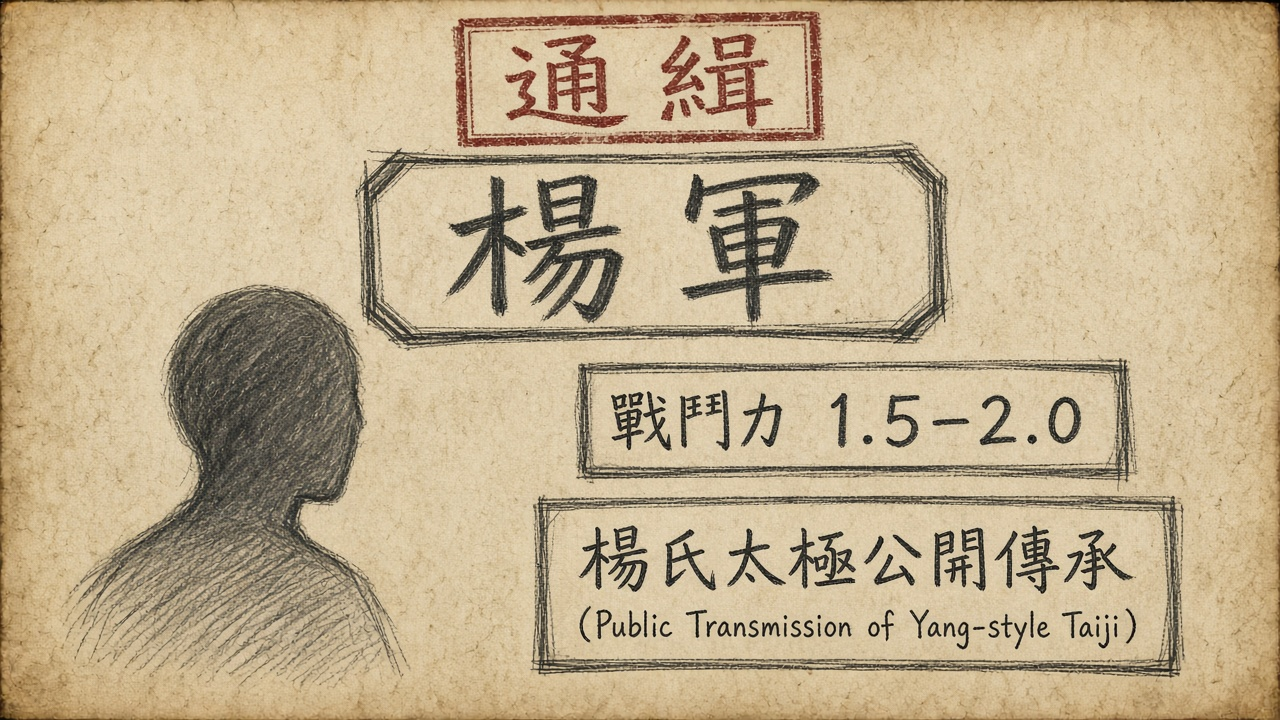
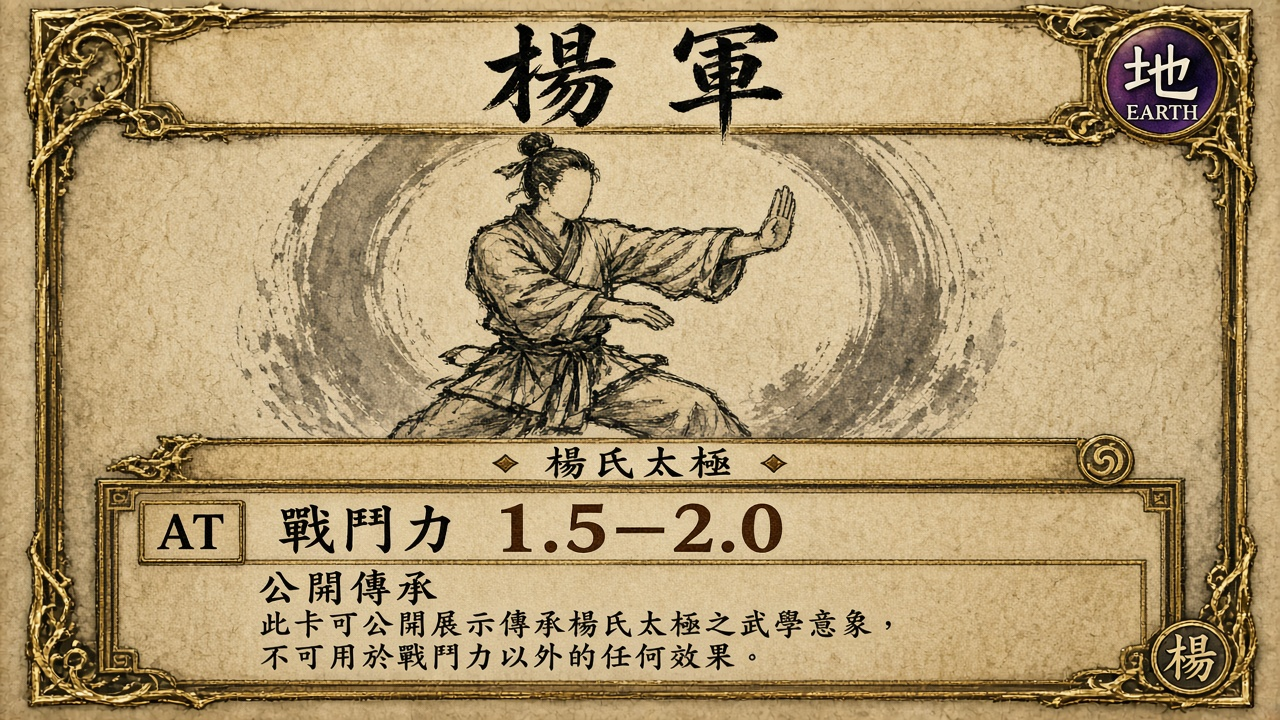
氣功大全：九張頭像改 TCG 卡牌風
覆蓋 assets/qigong-avatars 同 slug。頁面唔再寫通緝卡，改標 TCG／卡牌風頭像、非真人肖像。

diff --git a/qigong-encyclopedia.html b/qigong-encyclopedia.html
@@ -710,21 +710,21 @@ tr:hover td { background: rgba(255,255,255,.02); }
     </div>
 
     <h3 id="rank-cards-title">角色卡</h3>
-    <p class="char-sheet-note">14 人未有傳記頁，卡片先掛喺度，唔連去空頁。頭像、戰鬥力、絕招跟 2026-10-18 採集檔，硬核祝福編輯意見｜非官方。下面人物表係較早暫估，同卡嘅數字若唔同，唔好當成同一條數。楊軍、葉問、陳小旺、黃淳樑、John Danaher、Gordon Ryan、Yang Xiaojun 用粗剪影通緝卡｜非真人肖像。YouTube 縮圖或 Commons 團體照只作載入失敗備援。吹水、表演、傳說、影視唔當高戰力。</p>
+    <p class="char-sheet-note">14 人未有傳記頁，卡片先掛喺度，唔連去空頁。頭像、戰鬥力、絕招跟 2026-10-18 採集檔，硬核祝福編輯意見｜非官方。下面人物表係較早暫估，同卡嘅數字若唔同，唔好當成同一條數。楊軍、葉問、陳小旺、黃淳樑、John Danaher、Gordon Ryan、Yang Xiaojun 用TCG／卡牌風頭像｜非真人肖像。YouTube 縮圖或 Commons 團體照只作載入失敗備援。吹水、表演、傳說、影視唔當高戰力。</p>
     <div class="char-grid char-grid--ranks" id="rank-cards" aria-label="人物角色卡">
-      <article class="char-card char-card--rank" data-slug="bio-ip-man"><div class="char-avatar char-avatar--poster"><img src="assets/qigong-avatars/bio-ip-man.jpg" data-fallback-src="https://upload.wikimedia.org/wikipedia/commons/5/50/Ip_Man_Wing_Chun_Association.jpg" alt="粗剪影通緝卡，非真人肖像" width="220" height="132" loading="lazy" decoding="async" /><svg class="char-silhouette" viewBox="0 0 64 64" aria-hidden="true" focusable="false"><circle cx="32" cy="22" r="10"></circle><path d="M12 56c2-14 10-20 20-20s18 6 20 20"></path></svg><span class="char-initials" aria-hidden="true">葉</span></div><div class="char-main"><p class="char-kicker">一等 · 香港 · 未有傳記頁</p><h3 class="char-name">葉問</h3><p class="char-power"><span class="char-power-k">戰鬥力</span> <strong>1.6–2.2</strong><span class="char-power-note">歷史估計｜編輯意見｜非官方 · 影視唔當實戰</span></p><ul class="char-moves" aria-label="絕招"><li class="char-move" data-kind="ok"><span class="move-tag">傳承可核</span><span class="move-name">詠春木人樁體系</span><span class="move-note">公開傳承標準訓練。影視改編唔加分。</span></li><li class="char-move" data-kind="ok"><span class="move-tag">傳承可核</span><span class="move-name">黏手（Chi Sao）</span><span class="move-note">葉問系接觸訓練。弟子系教學可見，唔等於本人賽績。</span></li><li class="char-move" data-kind="weak"><span class="move-tag">門派基本</span><span class="move-name">小念頭／尋橋結構</span><span class="move-note">公開教學生態可核。影視改編當娛樂，唔當實戰。</span></li></ul><p class="char-credit">粗剪影通緝卡｜非真人肖像。卡面字係草圖，戰鬥力以呢頁為準。載入失敗先用 Commons 團體照作史料備援。</p></div></article>
+      <article class="char-card char-card--rank" data-slug="bio-ip-man"><div class="char-avatar char-avatar--poster"><img src="assets/qigong-avatars/bio-ip-man.jpg" data-fallback-src="https://upload.wikimedia.org/wikipedia/commons/5/50/Ip_Man_Wing_Chun_Association.jpg" alt="TCG卡牌風頭像，非真人肖像" width="220" height="132" loading="lazy" decoding="async" /><svg class="char-silhouette" viewBox="0 0 64 64" aria-hidden="true" focusable="false"><circle cx="32" cy="22" r="10"></circle><path d="M12 56c2-14 10-20 20-20s18 6 20 20"></path></svg><span class="char-initials" aria-hidden="true">葉</span></div><div class="char-main"><p class="char-kicker">一等 · 香港 · 未有傳記頁</p><h3 class="char-name">葉問</h3><p class="char-power"><span class="char-power-k">戰鬥力</span> <strong>1.6–2.2</strong><span class="char-power-note">歷史估計｜編輯意見｜非官方 · 影視唔當實戰</span></p><ul class="char-moves" aria-label="絕招"><li class="char-move" data-kind="ok"><span class="move-tag">傳承可核</span><span class="move-name">詠春木人樁體系</span><span class="move-note">公開傳承標準訓練。影視改編唔加分。</span></li><li class="char-move" data-kind="ok"><span class="move-tag">傳承可核</span><span class="move-name">黏手（Chi Sao）</span><span class="move-note">葉問系接觸訓練。弟子系教學可見，唔等於本人賽績。</span></li><li class="char-move" data-kind="weak"><span class="move-tag">門派基本</span><span class="move-name">小念頭／尋橋結構</span><span class="move-note">公開教學生態可核。影視改編當娛樂，唔當實戰。</span></li></ul><p class="char-credit">TCG／卡牌風頭像｜非真人肖像。卡面字係草圖，戰鬥力以呢頁為準。載入失敗先用 Commons 團體照作史料備援。</p></div></article>
       <article class="char-card char-card--rank" data-slug="bio-bruce-lee"><div class="char-avatar"><img src="https://upload.wikimedia.org/wikipedia/commons/c/ca/Bruce_Lee_1973.jpg" alt="" width="104" height="104" loading="lazy" decoding="async" referrerpolicy="no-referrer" /><svg class="char-silhouette" viewBox="0 0 64 64" aria-hidden="true" focusable="false"><circle cx="32" cy="22" r="10"></circle><path d="M12 56c2-14 10-20 20-20s18 6 20 20"></path></svg><span class="char-initials" aria-hidden="true">李</span><span class="char-badge">劇照</span></div><div class="char-main"><p class="char-kicker">一等 · 香港／美國 · 未有傳記頁</p><h3 class="char-name">李小龍</h3><p class="char-power"><span class="char-power-k">戰鬥力</span> <strong>2.0–2.6</strong><span class="char-power-note">歷史估計｜編輯意見｜非官方 · 唔單片定論，唔超泰臣＝3</span></p><ul class="char-moves" aria-label="絕招"><li class="char-move" data-kind="ok"><span class="move-tag">方法論可核</span><span class="move-name">截拳直拳／非古典組合</span><span class="move-note">公開訓練史同方法論。唔靠一條街頭剪輯定論。</span></li><li class="char-move" data-kind="fun"><span class="move-tag">史料／影視娛樂</span><span class="move-name">踢擊／敏捷體能展示</span><span class="move-note">訓練史料可核。電影武打係娛樂，唔直接等於擂台戰績。</span></li><li class="char-move" data-kind="weak"><span class="move-tag">示範｜勿吹神功</span><span class="move-name">一寸拳</span><span class="move-note">公開示範存在。實戰效力勿神話，唔當高戰力神功。</span></li></ul><p class="char-credit">頭像：Wikimedia Commons 劇照 Bruce_Lee_1973.jpg。授權見 Commons 頁，上站再核。</p></div></article>
       <article class="char-card char-card--rank" data-slug="bio-mas-oyama"><div class="char-avatar"><img src="https://upload.wikimedia.org/wikipedia/commons/6/6f/Masutatsu_Oyama_karate.jpg" alt="" width="104" height="104" loading="lazy" decoding="async" referrerpolicy="no-referrer" /><svg class="char-silhouette" viewBox="0 0 64 64" aria-hidden="true" focusable="false"><circle cx="32" cy="22" r="10"></circle><path d="M12 56c2-14 10-20 20-20s18 6 20 20"></path></svg><span class="char-initials" aria-hidden="true">大</span></div><div class="char-main"><p class="char-kicker">一等 · 日本 · 未有傳記頁</p><h3 class="char-name">大山倍達</h3><p class="char-power"><span class="char-power-k">戰鬥力</span> <strong>2.2–2.8</strong><span class="char-power-note">歷史估計｜編輯意見｜非官方 · 傳說唔自動超泰臣＝3</span></p><ul class="char-moves" aria-label="絕招"><li class="char-move" data-kind="ok"><span class="move-tag">體系可核</span><span class="move-name">極真全接觸組手</span><span class="move-note">無護手套錦標賽規則可核。個人傳奇要分開睇。</span></li><li class="char-move" data-kind="ok"><span class="move-tag">賽事可證</span><span class="move-name">中段踢／重擊傳統</span><span class="move-note">體系全接觸賽事可見。唔把傳說加進戰鬥力。</span></li><li class="char-move" data-kind="pending"><span class="move-tag">待核／傳說</span><span class="move-name">山籠訓練敘事</span><span class="move-note">個人傳奇同非賽事敘事混埋。狀態待核，唔當已證絕招。</span></li></ul><p class="char-credit">頭像：Wikimedia Commons 1954 報道照片 Masutatsu_Oyama_karate.jpg。授權見 Commons 頁，上站再核。</p></div></article>
-      <article class="char-card char-card--rank" data-slug="bio-gordon-ryan"><div class="char-avatar char-avatar--poster"><img src="assets/qigong-avatars/bio-gordon-ryan.jpg" data-fallback-src="https://i.ytimg.com/vi/Cwp2Q0angjc/hqdefault.jpg" alt="粗剪影通緝卡，非真人肖像" width="220" height="132" loading="lazy" decoding="async" /><svg class="char-silhouette" viewBox="0 0 64 64" aria-hidden="true" focusable="false"><circle cx="32" cy="22" r="10"></circle><path d="M12 56c2-14 10-20 20-20s18 6 20 20"></path></svg><span class="char-initials" aria-hidden="true">G</span></div><div class="char-main"><p class="char-kicker">一等 · 美國 · 未有傳記頁</p><h3 class="char-name">Gordon Ryan</h3><p class="char-power"><span class="char-power-k">戰鬥力</span> <strong>2.4–2.9</strong><span class="char-power-note">編輯意見｜非官方 · 貼近上限，唔寫超泰臣＝3</span></p><ul class="char-moves" aria-label="絕招"><li class="char-move" data-kind="ok"><span class="move-tag">可證教學</span><span class="move-name">站立防摔基本</span><span class="move-note">公開站立防摔拆解。</span></li><li class="char-move" data-kind="ok"><span class="move-tag">賽績可核</span><span class="move-name">無道服上層／腿鎖體系</span><span class="move-note">ADCC 級公開賽果。專項係寢技，唔漫畫化。</span></li><li class="char-move" data-kind="ok"><span class="move-tag">可證競技</span><span class="move-name">身體鎖／體位壓制</span><span class="move-note">公開賽可見結束技術。</span></li></ul><p class="char-credit">粗剪影通緝卡｜非真人肖像。卡面字係草圖，戰鬥力以呢頁為準。載入失敗先用 YouTube 縮圖（跟 ToS，非官方）。</p></div></article>
-      <article class="char-card char-card--rank" data-slug="bio-chen-xiaowang"><div class="char-avatar char-avatar--poster"><img src="assets/qigong-avatars/bio-chen-xiaowang.jpg" data-fallback-src="https://i.ytimg.com/vi/bUmE_1L4vdo/hqdefault.jpg" alt="粗剪影通緝卡，非真人肖像" width="220" height="132" loading="lazy" decoding="async" /><svg class="char-silhouette" viewBox="0 0 64 64" aria-hidden="true" focusable="false"><circle cx="32" cy="22" r="10"></circle><path d="M12 56c2-14 10-20 20-20s18 6 20 20"></path></svg><span class="char-initials" aria-hidden="true">陳</span></div><div class="char-main"><p class="char-kicker">二等 · 中國 · 未有傳記頁</p><h3 class="char-name">陳小旺</h3><p class="char-power"><span class="char-power-k">戰鬥力</span> <strong>1.4–2.0</strong><span class="char-power-note">編輯意見｜非官方 · 示範可核，無全接觸職業賽績</span></p><ul class="char-moves" aria-label="絕招"><li class="char-move" data-kind="ok"><span class="move-tag">可證示範</span><span class="move-name">纏絲功</span><span class="move-note">螺旋結構、全身協調可見。唔當全接觸賽績。</span></li><li class="char-move" data-kind="ok"><span class="move-tag">可證</span><span class="move-name">定式發力／纏絲續</span><span class="move-note">續練公開可見。</span></li><li class="char-move" data-kind="ok"><span class="move-tag">可證接觸教學</span><span class="move-name">陳氏推手協調</span><span class="move-note">推手結構。唔當擂台戰績。</span></li></ul><p class="char-credit">粗剪影通緝卡｜非真人肖像。卡面字係草圖，戰鬥力以呢頁為準。載入失敗先用 YouTube 縮圖（跟 ToS，非官方）。</p></div></article>
-      <article class="char-card char-card--rank" data-slug="bio-wong-shun-leung"><div class="char-avatar char-avatar--poster"><img src="assets/qigong-avatars/bio-wong-shun-leung.jpg" data-fallback-src="https://i.ytimg.com/vi/r4RkhTyfrZE/hqdefault.jpg" alt="粗剪影通緝卡，非真人肖像" width="220" height="132" loading="lazy" decoding="async" /><svg class="char-silhouette" viewBox="0 0 64 64" aria-hidden="true" focusable="false"><circle cx="32" cy="22" r="10"></circle><path d="M12 56c2-14 10-20 20-20s18 6 20 20"></path></svg><span class="char-initials" aria-hidden="true">黃</span></div><div class="char-main"><p class="char-kicker">二等 · 香港 · 未有傳記頁</p><h3 class="char-name">黃淳樑</h3><p class="char-power"><span class="char-power-k">戰鬥力</span> <strong>1.7–2.3</strong><span class="char-power-note">編輯意見｜非官方 · 比武場次數字口述待核</span></p><ul class="char-moves" aria-label="絕招"><li class="char-move" data-kind="ok"><span class="move-tag">可證教學</span><span class="move-name">攤膀／圈手</span><span class="move-note">研討會影像見結構。</span></li><li class="char-move" data-kind="weak"><span class="move-tag">教學導向</span><span class="move-name">講手</span><span class="move-note">紀錄片可核教學導向。場次數字待核，唔硬當官方紀錄。</span></li><li class="char-move" data-kind="ok"><span class="move-tag">可證結構</span><span class="move-name">直線中線拳法</span><span class="move-note">公開教學可見。</span></li></ul><p class="char-credit">粗剪影通緝卡｜非真人肖像。卡面字係草圖，戰鬥力以呢頁為準。載入失敗先用 YouTube 縮圖（跟 ToS，非官方）。</p></div></article>
-      <article class="char-card char-card--rank" data-slug="bio-john-danaher"><div class="char-avatar char-avatar--poster"><img src="assets/qigong-avatars/bio-john-danaher.jpg" data-fallback-src="https://i.ytimg.com/vi/jdv82OdlTO8/hqdefault.jpg" alt="粗剪影通緝卡，非真人肖像" width="220" height="132" loading="lazy" decoding="async" /><svg class="char-silhouette" viewBox="0 0 64 64" aria-hidden="true" focusable="false"><circle cx="32" cy="22" r="10"></circle><path d="M12 56c2-14 10-20 20-20s18 6 20 20"></path></svg><span class="char-initials" aria-hidden="true">J</span></div><div class="char-main"><p class="char-kicker">二等 · 紐西蘭→美國 · 未有傳記頁</p><h3 class="char-name">John Danaher</h3><p class="char-power"><span class="char-power-k">戰鬥力</span> <strong>1.5–2.0</strong><span class="char-power-note">教練為主｜編輯意見｜非官方 · 學員金牌 ≠ 本人出場</span></p><ul class="char-moves" aria-label="絕招"><li class="char-move" data-kind="ok"><span class="move-tag">可證教學</span><span class="move-name">體位控制系統</span><span class="move-note">公開課程拆解體位。</span></li><li class="char-move" data-kind="ok"><span class="move-tag">可證課程</span><span class="move-name">腿鎖／下層系統教學</span><span class="move-note">教練體系。學員賽績唔加成本人肢體戰力。</span></li></ul><p class="char-credit">粗剪影通緝卡｜非真人肖像。卡面字係草圖，戰鬥力以呢頁為準。載入失敗先用 YouTube 縮圖（跟 ToS，非官方）。</p></div></article>
-      <article class="char-card char-card--rank" data-slug="bio-yang-jun"><div class="char-avatar char-avatar--poster"><img src="assets/qigong-avatars/bio-yang-jun.jpg" alt="粗剪影通緝卡，非真人肖像" width="220" height="132" loading="lazy" decoding="async" /><svg class="char-silhouette" viewBox="0 0 64 64" aria-hidden="true" focusable="false"><circle cx="32" cy="22" r="10"></circle><path d="M12 56c2-14 10-20 20-20s18 6 20 20"></path></svg><span class="char-initials" aria-hidden="true">楊</span></div><div class="char-main"><p class="char-kicker">三等 · 中國→美國 · 未有傳記頁</p><h3 class="char-name">楊軍</h3><p class="char-power"><span class="char-power-k">戰鬥力</span> <strong>1.2–1.7</strong><span class="char-power-note">編輯意見｜非官方 · 傳承為主，非全接觸賽績</span></p><ul class="char-moves" aria-label="絕招"><li class="char-move" data-kind="ok"><span class="move-tag">公開傳承可核</span><span class="move-name">楊氏太極套路示範</span><span class="move-note">公開教學／推廣標準。非擂台選手型。</span></li><li class="char-move" data-kind="fun"><span class="move-tag">暱稱・推廣向</span><span class="move-name">國際研習帶功</span><span class="move-note">國際巡迴教學角色。唔當殺招。</span></li></ul><p class="char-credit">粗剪影通緝卡｜非真人肖像。卡面字係草圖，戰鬥力以呢頁為準。</p></div></article>
+      <article class="char-card char-card--rank" data-slug="bio-gordon-ryan"><div class="char-avatar char-avatar--poster"><img src="assets/qigong-avatars/bio-gordon-ryan.jpg" data-fallback-src="https://i.ytimg.com/vi/Cwp2Q0angjc/hqdefault.jpg" alt="TCG卡牌風頭像，非真人肖像" width="220" height="132" loading="lazy" decoding="async" /><svg class="char-silhouette" viewBox="0 0 64 64" aria-hidden="true" focusable="false"><circle cx="32" cy="22" r="10"></circle><path d="M12 56c2-14 10-20 20-20s18 6 20 20"></path></svg><span class="char-initials" aria-hidden="true">G</span></div><div class="char-main"><p class="char-kicker">一等 · 美國 · 未有傳記頁</p><h3 class="char-name">Gordon Ryan</h3><p class="char-power"><span class="char-power-k">戰鬥力</span> <strong>2.4–2.9</strong><span class="char-power-note">編輯意見｜非官方 · 貼近上限，唔寫超泰臣＝3</span></p><ul class="char-moves" aria-label="絕招"><li class="char-move" data-kind="ok"><span class="move-tag">可證教學</span><span class="move-name">站立防摔基本</span><span class="move-note">公開站立防摔拆解。</span></li><li class="char-move" data-kind="ok"><span class="move-tag">賽績可核</span><span class="move-name">無道服上層／腿鎖體系</span><span class="move-note">ADCC 級公開賽果。專項係寢技，唔漫畫化。</span></li><li class="char-move" data-kind="ok"><span class="move-tag">可證競技</span><span class="move-name">身體鎖／體位壓制</span><span class="move-note">公開賽可見結束技術。</span></li></ul><p class="char-credit">TCG／卡牌風頭像｜非真人肖像。卡面字係草圖，戰鬥力以呢頁為準。載入失敗先用 YouTube 縮圖（跟 ToS，非官方）。</p></div></article>
+      <article class="char-card char-card--rank" data-slug="bio-chen-xiaowang"><div class="char-avatar char-avatar--poster"><img src="assets/qigong-avatars/bio-chen-xiaowang.jpg" data-fallback-src="https://i.ytimg.com/vi/bUmE_1L4vdo/hqdefault.jpg" alt="TCG卡牌風頭像，非真人肖像" width="220" height="132" loading="lazy" decoding="async" /><svg class="char-silhouette" viewBox="0 0 64 64" aria-hidden="true" focusable="false"><circle cx="32" cy="22" r="10"></circle><path d="M12 56c2-14 10-20 20-20s18 6 20 20"></path></svg><span class="char-initials" aria-hidden="true">陳</span></div><div class="char-main"><p class="char-kicker">二等 · 中國 · 未有傳記頁</p><h3 class="char-name">陳小旺</h3><p class="char-power"><span class="char-power-k">戰鬥力</span> <strong>1.4–2.0</strong><span class="char-power-note">編輯意見｜非官方 · 示範可核，無全接觸職業賽績</span></p><ul class="char-moves" aria-label="絕招"><li class="char-move" data-kind="ok"><span class="move-tag">可證示範</span><span class="move-name">纏絲功</span><span class="move-note">螺旋結構、全身協調可見。唔當全接觸賽績。</span></li><li class="char-move" data-kind="ok"><span class="move-tag">可證</span><span class="move-name">定式發力／纏絲續</span><span class="move-note">續練公開可見。</span></li><li class="char-move" data-kind="ok"><span class="move-tag">可證接觸教學</span><span class="move-name">陳氏推手協調</span><span class="move-note">推手結構。唔當擂台戰績。</span></li></ul><p class="char-credit">TCG／卡牌風頭像｜非真人肖像。卡面字係草圖，戰鬥力以呢頁為準。載入失敗先用 YouTube 縮圖（跟 ToS，非官方）。</p></div></article>
+      <article class="char-card char-card--rank" data-slug="bio-wong-shun-leung"><div class="char-avatar char-avatar--poster"><img src="assets/qigong-avatars/bio-wong-shun-leung.jpg" data-fallback-src="https://i.ytimg.com/vi/r4RkhTyfrZE/hqdefault.jpg" alt="TCG卡牌風頭像，非真人肖像" width="220" height="132" loading="lazy" decoding="async" /><svg class="char-silhouette" viewBox="0 0 64 64" aria-hidden="true" focusable="false"><circle cx="32" cy="22" r="10"></circle><path d="M12 56c2-14 10-20 20-20s18 6 20 20"></path></svg><span class="char-initials" aria-hidden="true">黃</span></div><div class="char-main"><p class="char-kicker">二等 · 香港 · 未有傳記頁</p><h3 class="char-name">黃淳樑</h3><p class="char-power"><span class="char-power-k">戰鬥力</span> <strong>1.7–2.3</strong><span class="char-power-note">編輯意見｜非官方 · 比武場次數字口述待核</span></p><ul class="char-moves" aria-label="絕招"><li class="char-move" data-kind="ok"><span class="move-tag">可證教學</span><span class="move-name">攤膀／圈手</span><span class="move-note">研討會影像見結構。</span></li><li class="char-move" data-kind="weak"><span class="move-tag">教學導向</span><span class="move-name">講手</span><span class="move-note">紀錄片可核教學導向。場次數字待核，唔硬當官方紀錄。</span></li><li class="char-move" data-kind="ok"><span class="move-tag">可證結構</span><span class="move-name">直線中線拳法</span><span class="move-note">公開教學可見。</span></li></ul><p class="char-credit">TCG／卡牌風頭像｜非真人肖像。卡面字係草圖，戰鬥力以呢頁為準。載入失敗先用 YouTube 縮圖（跟 ToS，非官方）。</p></div></article>
+      <article class="char-card char-card--rank" data-slug="bio-john-danaher"><div class="char-avatar char-avatar--poster"><img src="assets/qigong-avatars/bio-john-danaher.jpg" data-fallback-src="https://i.ytimg.com/vi/jdv82OdlTO8/hqdefault.jpg" alt="TCG卡牌風頭像，非真人肖像" width="220" height="132" loading="lazy" decoding="async" /><svg class="char-silhouette" viewBox="0 0 64 64" aria-hidden="true" focusable="false"><circle cx="32" cy="22" r="10"></circle><path d="M12 56c2-14 10-20 20-20s18 6 20 20"></path></svg><span class="char-initials" aria-hidden="true">J</span></div><div class="char-main"><p class="char-kicker">二等 · 紐西蘭→美國 · 未有傳記頁</p><h3 class="char-name">John Danaher</h3><p class="char-power"><span class="char-power-k">戰鬥力</span> <strong>1.5–2.0</strong><span class="char-power-note">教練為主｜編輯意見｜非官方 · 學員金牌 ≠ 本人出場</span></p><ul class="char-moves" aria-label="絕招"><li class="char-move" data-kind="ok"><span class="move-tag">可證教學</span><span class="move-name">體位控制系統</span><span class="move-note">公開課程拆解體位。</span></li><li class="char-move" data-kind="ok"><span class="move-tag">可證課程</span><span class="move-name">腿鎖／下層系統教學</span><span class="move-note">教練體系。學員賽績唔加成本人肢體戰力。</span></li></ul><p class="char-credit">TCG／卡牌風頭像｜非真人肖像。卡面字係草圖，戰鬥力以呢頁為準。載入失敗先用 YouTube 縮圖（跟 ToS，非官方）。</p></div></article>
+      <article class="char-card char-card--rank" data-slug="bio-yang-jun"><div class="char-avatar char-avatar--poster"><img src="assets/qigong-avatars/bio-yang-jun.jpg" alt="TCG卡牌風頭像，非真人肖像" width="220" height="132" loading="lazy" decoding="async" /><svg class="char-silhouette" viewBox="0 0 64 64" aria-hidden="true" focusable="false"><circle cx="32" cy="22" r="10"></circle><path d="M12 56c2-14 10-20 20-20s18 6 20 20"></path></svg><span class="char-initials" aria-hidden="true">楊</span></div><div class="char-main"><p class="char-kicker">三等 · 中國→美國 · 未有傳記頁</p><h3 class="char-name">楊軍</h3><p class="char-power"><span class="char-power-k">戰鬥力</span> <strong>1.2–1.7</strong><span class="char-power-note">編輯意見｜非官方 · 傳承為主，非全接觸賽績</span></p><ul class="char-moves" aria-label="絕招"><li class="char-move" data-kind="ok"><span class="move-tag">公開傳承可核</span><span class="move-name">楊氏太極套路示範</span><span class="move-note">公開教學／推廣標準。非擂台選手型。</span></li><li class="char-move" data-kind="fun"><span class="move-tag">暱稱・推廣向</span><span class="move-name">國際研習帶功</span><span class="move-note">國際巡迴教學角色。唔當殺招。</span></li></ul><p class="char-credit">TCG／卡牌風頭像｜非真人肖像。卡面字係草圖，戰鬥力以呢頁為準。</p></div></article>
       <article class="char-card char-card--rank" data-slug="bio-luo-dexiu"><div class="char-avatar"><img src="https://i.ytimg.com/vi/-CA-eGPtXPo/hqdefault.jpg" alt="" width="104" height="104" loading="lazy" decoding="async" referrerpolicy="no-referrer" /><svg class="char-silhouette" viewBox="0 0 64 64" aria-hidden="true" focusable="false"><circle cx="32" cy="22" r="10"></circle><path d="M12 56c2-14 10-20 20-20s18 6 20 20"></path></svg><span class="char-initials" aria-hidden="true">羅</span></div><div class="char-main"><p class="char-kicker">三等 · 台灣 · 未有傳記頁</p><h3 class="char-name">羅德修</h3><p class="char-power"><span class="char-power-k">戰鬥力</span> <strong>1.5–2.1</strong><span class="char-power-note">編輯意見｜非官方 · 早期賽績細節待核</span></p><ul class="char-moves" aria-label="絕招"><li class="char-move" data-kind="ok"><span class="move-tag">可證</span><span class="move-name">高氏八卦走圈</span><span class="move-note">轉身、走圈公開可見。</span></li><li class="char-move" data-kind="ok"><span class="move-tag">可證教學</span><span class="move-name">八卦應用接觸</span><span class="move-note">片內應用段落。</span></li><li class="char-move" data-kind="pending"><span class="move-tag">敘事可核・賽績待核</span><span class="move-name">形意／意宗結構</span><span class="move-note">師承摘要可核。早期賽績細節未當已證。</span></li></ul><p class="char-credit">頭像：YouTube 縮圖（-CA-eGPtXPo）。跟 YouTube ToS，非官方圖庫。</p></div></article>
       <article class="char-card char-card--rank" data-slug="bio-lam-kam-chuen"><div class="char-avatar"><img src="https://i.ytimg.com/vi/y07FauHYlmg/hqdefault.jpg" alt="" width="104" height="104" loading="lazy" decoding="async" referrerpolicy="no-referrer" /><svg class="char-silhouette" viewBox="0 0 64 64" aria-hidden="true" focusable="false"><circle cx="32" cy="22" r="10"></circle><path d="M12 56c2-14 10-20 20-20s18 6 20 20"></path></svg><span class="char-initials" aria-hidden="true">林</span></div><div class="char-main"><p class="char-kicker">四等 · 香港→英國 · 未有傳記頁</p><h3 class="char-name">林金泉</h3><p class="char-power"><span class="char-power-k">戰鬥力</span> <strong>0.9–1.2</strong><span class="char-power-note">非格鬥評級｜編輯意見｜非官方 · 養生站樁，唔寫成打人</span></p><ul class="char-moves" aria-label="絕招"><li class="char-move" data-kind="ok"><span class="move-tag">可證養生</span><span class="move-name">站樁日課</span><span class="move-note">呼吸同站姿可見。係養生，唔係格鬥絕招。</span></li><li class="char-move" data-kind="ok"><span class="move-tag">可證養生</span><span class="move-name">站樁進階日課</span><span class="move-note">進階日課同樣係養生。</span></li></ul><p class="char-credit">頭像：YouTube 縮圖（y07FauHYlmg）。跟 YouTube ToS，非官方圖庫。</p></div></article>
       <article class="char-card char-card--rank" data-slug="bio-federico-malagutti"><div class="char-avatar"><img src="https://i.ytimg.com/vi/Q47CbCc4dXY/hqdefault.jpg" alt="" width="104" height="104" loading="lazy" decoding="async" referrerpolicy="no-referrer" /><svg class="char-silhouette" viewBox="0 0 64 64" aria-hidden="true" focusable="false"><circle cx="32" cy="22" r="10"></circle><path d="M12 56c2-14 10-20 20-20s18 6 20 20"></path></svg><span class="char-initials" aria-hidden="true">F</span></div><div class="char-main"><p class="char-kicker">四等 · 意大利 · 未有傳記頁</p><h3 class="char-name">Federico Malagutti</h3><p class="char-power"><span class="char-power-k">戰鬥力</span> <strong>1.3–1.8</strong><span class="char-power-note">護具劍術語境｜編輯意見｜非官方 · 唔換算做空手搏擊</span></p><ul class="char-moves" aria-label="絕招"><li class="char-move" data-kind="ok"><span class="move-tag">可證 Sparring</span><span class="move-name">長劍距離管理</span><span class="move-note">護具對練可見時機。</span></li><li class="char-move" data-kind="ok"><span class="move-tag">可證對練</span><span class="move-name">Fiore 系砍刺交換</span><span class="move-note">公開交換回合。有護具。</span></li></ul><p class="char-credit">頭像：YouTube 縮圖（Q47CbCc4dXY）。跟 YouTube ToS，非官方圖庫。</p></div></article>
       <article class="char-card char-card--rank" data-slug="bio-eduardo-tanaka"><div class="char-avatar"><img src="https://i.ytimg.com/vi/a3AGBSz53_Y/hqdefault.jpg" alt="" width="104" height="104" loading="lazy" decoding="async" referrerpolicy="no-referrer" /><svg class="char-silhouette" viewBox="0 0 64 64" aria-hidden="true" focusable="false"><circle cx="32" cy="22" r="10"></circle><path d="M12 56c2-14 10-20 20-20s18 6 20 20"></path></svg><span class="char-initials" aria-hidden="true">E</span></div><div class="char-main"><p class="char-kicker">五等 · 巴西／日本賽場 · 未有傳記頁</p><h3 class="char-name">Eduardo Tanaka</h3><p class="char-power"><span class="char-power-k">戰鬥力</span> <strong>1.6–2.1</strong><span class="char-power-note">編輯意見｜非官方 · 單場可核，唔因單場抬宗師</span></p><ul class="char-moves" aria-label="絕招"><li class="char-move" data-kind="ok"><span class="move-tag">可證單場</span><span class="move-name">極真中段踢攻防</span><span class="move-note">公開全接觸對戰可見。</span></li><li class="char-move" data-kind="ok"><span class="move-tag">可證</span><span class="move-name">全接觸近身打擊</span><span class="move-note">同場攻防節奏。生涯戰績細節待查。</span></li></ul><p class="char-credit">頭像：YouTube 縮圖（a3AGBSz53_Y）。跟 YouTube ToS，非官方圖庫。</p></div></article>
-      <article class="char-card char-card--rank" data-slug="bio-yang-xiaojun-sanda"><div class="char-avatar char-avatar--poster"><img src="assets/qigong-avatars/bio-yang-xiaojun-sanda.jpg" data-fallback-src="https://i.ytimg.com/vi/UCuwGnPR9Jk/hqdefault.jpg" alt="粗剪影通緝卡，非真人肖像" width="220" height="132" loading="lazy" decoding="async" /><svg class="char-silhouette" viewBox="0 0 64 64" aria-hidden="true" focusable="false"><circle cx="32" cy="22" r="10"></circle><path d="M12 56c2-14 10-20 20-20s18 6 20 20"></path></svg><span class="char-initials" aria-hidden="true">Y</span></div><div class="char-main"><p class="char-kicker">五等 · 中國 · 未有傳記頁</p><h3 class="char-name">Yang Xiaojun</h3><p class="char-power"><span class="char-power-k">戰鬥力</span> <strong>1.4–1.9</strong><span class="char-power-note">編輯意見｜非官方 · 教學接觸可核，職銜待核</span></p><ul class="char-moves" aria-label="絕招"><li class="char-move" data-kind="ok"><span class="move-tag">可證教學接觸</span><span class="move-name">散打抱摔／過背類</span><span class="move-note">教學片見摔法。職銜未核，唔抬英雄傳。</span></li><li class="char-move" data-kind="ok"><span class="move-tag">可證教學</span><span class="move-name">散打摔法連接拳腿</span><span class="move-note">訓練結構可見。</span></li></ul><p class="char-credit">粗剪影通緝卡｜非真人肖像。卡面字係草圖，戰鬥力以呢頁為準。載入失敗先用 YouTube 縮圖（跟 ToS，非官方）。</p></div></article>
+      <article class="char-card char-card--rank" data-slug="bio-yang-xiaojun-sanda"><div class="char-avatar char-avatar--poster"><img src="assets/qigong-avatars/bio-yang-xiaojun-sanda.jpg" data-fallback-src="https://i.ytimg.com/vi/UCuwGnPR9Jk/hqdefault.jpg" alt="TCG卡牌風頭像，非真人肖像" width="220" height="132" loading="lazy" decoding="async" /><svg class="char-silhouette" viewBox="0 0 64 64" aria-hidden="true" focusable="false"><circle cx="32" cy="22" r="10"></circle><path d="M12 56c2-14 10-20 20-20s18 6 20 20"></path></svg><span class="char-initials" aria-hidden="true">Y</span></div><div class="char-main"><p class="char-kicker">五等 · 中國 · 未有傳記頁</p><h3 class="char-name">Yang Xiaojun</h3><p class="char-power"><span class="char-power-k">戰鬥力</span> <strong>1.4–1.9</strong><span class="char-power-note">編輯意見｜非官方 · 教學接觸可核，職銜待核</span></p><ul class="char-moves" aria-label="絕招"><li class="char-move" data-kind="ok"><span class="move-tag">可證教學接觸</span><span class="move-name">散打抱摔／過背類</span><span class="move-note">教學片見摔法。職銜未核，唔抬英雄傳。</span></li><li class="char-move" data-kind="ok"><span class="move-tag">可證教學</span><span class="move-name">散打摔法連接拳腿</span><span class="move-note">訓練結構可見。</span></li></ul><p class="char-credit">TCG／卡牌風頭像｜非真人肖像。卡面字係草圖，戰鬥力以呢頁為準。載入失敗先用 YouTube 縮圖（跟 ToS，非官方）。</p></div></article>
       <article class="char-card char-card--rank" data-slug="bio-zhang-hong-mei"><div class="char-avatar"><img src="https://i.ytimg.com/vi/3NHEOU88TaY/hqdefault.jpg" alt="" width="104" height="104" loading="lazy" decoding="async" referrerpolicy="no-referrer" /><svg class="char-silhouette" viewBox="0 0 64 64" aria-hidden="true" focusable="false"><circle cx="32" cy="22" r="10"></circle><path d="M12 56c2-14 10-20 20-20s18 6 20 20"></path></svg><span class="char-initials" aria-hidden="true">張</span></div><div class="char-main"><p class="char-kicker">六等 · 中國 · 未有傳記頁</p><h3 class="char-name">張洪梅</h3><p class="char-power"><span class="char-power-k">戰鬥力</span> <strong>1.0–1.4</strong><span class="char-power-note">編輯意見｜非官方 · 演示可核，簡歷待核</span></p><ul class="char-moves" aria-label="絕招"><li class="char-move" data-kind="ok"><span class="move-tag">可證示範</span><span class="move-name">八卦掌走轉演示</span><span class="move-note">公開演示。師承簡歷未齊，唔抬宗師。</span></li><li class="char-move" data-kind="ok"><span class="move-tag">可證示範</span><span class="move-name">八卦掌形展開</span><span class="move-note">同片可見。</span></li></ul><p class="char-credit">頭像：YouTube 縮圖（3NHEOU88TaY）。跟 YouTube ToS，非官方圖庫。</p></div></article>
     </div>
     <div class="table-wrap">
@@ -768,7 +768,7 @@ tr:hover td { background: rgba(255,255,255,.02); }
     <div class="section-kicker">INTERNET</div>
     <h2 id="internet-title">網路奇人／<em>待核</em></h2>
     <p class="section-lead">第二批真料（2026-10-18）：7 個必收名，加 3 個相關公開人物，共 10 人。表入面同下面卡嘅人名，連去人物傳。戰鬥力同真假跟採集檔，唔當神功。標尺仍然係 1＝普通成年男子、泰臣＝3（《刃牙》錨，非科學測量）。有公開真接觸先至可以接近或略高過 1；翻車、表演、無接觸吹噓遠低過 3。每行標「硬核祝福編輯意見｜非官方」。代表片用 youtube-nocookie；同場片不重複嵌。</p>
-    <p class="char-sheet-note">縮圖角色卡跟 2026-10-18 採集檔。頭像多數係 YouTube 縮圖，要跟 YouTube ToS，唔當官方肖像。Nobody-here、王慶民係粗剪影通緝卡｜非真人肖像。絕招標可證／吹水／表演／舞蹈；吹水同表演唔當高戰力。戰鬥力係硬核祝福編輯意見｜非官方。</p>
+    <p class="char-sheet-note">縮圖角色卡跟 2026-10-18 採集檔。頭像多數係 YouTube 縮圖，要跟 YouTube ToS，唔當官方肖像。Nobody-here、王慶民係TCG／卡牌風頭像｜非真人肖像。絕招標可證／吹水／表演／舞蹈；吹水同表演唔當高戰力。戰鬥力係硬核祝福編輯意見｜非官方。</p>
     <div class="char-grid" id="internet-cards" aria-label="網路奇人角色卡">
       <a class="char-card char-card--compact" data-slug="bio-carriage-lau" href="qigong-bios/qigong-bio-carriage-lau.html"><div class="char-avatar"><img src="https://i.ytimg.com/vi/5srmA5xbBJs/hqdefault.jpg" alt="" width="104" height="104" loading="lazy" decoding="async" referrerpolicy="no-referrer" /><svg class="char-silhouette" viewBox="0 0 64 64" aria-hidden="true" focusable="false"><circle cx="32" cy="22" r="10"></circle><path d="M12 56c2-14 10-20 20-20s18 6 20 20"></path></svg><span class="char-initials" aria-hidden="true">劉</span></div><div class="char-main"><p class="char-kicker">P01 · 香港</p><h3 class="char-name">劉馬車</h3><p class="char-power"><span class="char-power-k">戰鬥力</span> <strong>0.4–0.7</strong><span class="char-power-note">編輯意見｜非官方 · 1＝普通成年男子 · 泰臣＝3</span></p><ul class="char-moves" aria-label="絕招預覽"><li class="char-move" data-kind="hype"><span class="move-tag">娛樂｜非武技</span><span class="move-name">口砲開場</span><span class="move-note">記者會推撞／口角氣氛。唔係可證武技，唔當高戰力。</span></li></ul></div></a>
       <a class="char-card char-card--compact" data-slug="bio-long-sum" href="qigong-bios/qigong-bio-long-sum.html"><div class="char-avatar"><img src="https://i.ytimg.com/vi/Mw_C2aC0oro/hqdefault.jpg" alt="" width="104" height="104" loading="lazy" decoding="async" referrerpolicy="no-referrer" /><svg class="char-silhouette" viewBox="0 0 64 64" aria-hidden="true" focusable="false"><circle cx="32" cy="22" r="10"></circle><path d="M12 56c2-14 10-20 20-20s18 6 20 20"></path></svg><span class="char-initials" aria-hidden="true">龍</span></div><div class="char-main"><p class="char-kicker">P02 · 香港</p><h3 class="char-name">龍心</h3><p class="char-power"><span class="char-power-k">戰鬥力</span> <strong>0.3–0.6</strong><span class="char-power-note">編輯意見｜非官方 · 1＝普通成年男子 · 泰臣＝3</span></p><ul class="char-moves" aria-label="絕招預覽"><li class="char-move" data-kind="ok"><span class="move-tag">可證・娛樂擂台</span><span class="move-name">衝前亂打</span><span class="move-note">公開賽見前衝揮空／被打。係膽色，唔係技術。</span></li></ul></div></a>
@@ -778,8 +778,8 @@ tr:hover td { background: rgba(255,255,255,.02); }
       <a class="char-card char-card--compact" data-slug="bio-ma-baoguo" href="qigong-bios/qigong-bio-ma-baoguo.html"><div class="char-avatar"><img src="https://i.ytimg.com/vi/94aQsvctFoI/hqdefault.jpg" alt="" width="104" height="104" loading="lazy" decoding="async" referrerpolicy="no-referrer" /><svg class="char-silhouette" viewBox="0 0 64 64" aria-hidden="true" focusable="false"><circle cx="32" cy="22" r="10"></circle><path d="M12 56c2-14 10-20 20-20s18 6 20 20"></path></svg><span class="char-initials" aria-hidden="true">馬</span></div><div class="char-main"><p class="char-kicker">P06 · 中國</p><h3 class="char-name">馬保國</h3><p class="char-power"><span class="char-power-k">戰鬥力</span> <strong>0.15–0.35</strong><span class="char-power-note">編輯意見｜非官方 · 表演唔當實戰</span></p><ul class="char-moves" aria-label="絕招預覽"><li class="char-move" data-kind="hype"><span class="move-tag">表演／吹水</span><span class="move-name">閃電五連鞭</span><span class="move-note">無對抗對象嘅表演短片。唔當實戰，唔當高戰力。</span></li></ul></div></a>
       <a class="char-card char-card--compact" data-slug="bio-shanshenbu-huagudeng" href="qigong-bios/qigong-bio-shanshenbu-huagudeng.html"><div class="char-avatar"><img src="https://i.ytimg.com/vi/tI6iE0lVZyw/hqdefault.jpg" alt="" width="104" height="104" loading="lazy" decoding="async" referrerpolicy="no-referrer" /><svg class="char-silhouette" viewBox="0 0 64 64" aria-hidden="true" focusable="false"><circle cx="32" cy="22" r="10"></circle><path d="M12 56c2-14 10-20 20-20s18 6 20 20"></path></svg><span class="char-initials" aria-hidden="true">閃</span><span class="char-badge">教材</span></div><div class="char-main"><p class="char-kicker">P07 · 中國</p><h3 class="char-name">閃身步</h3><p class="char-power"><span class="char-power-k">戰鬥力</span> <strong>不適用（舞蹈）</strong><span class="char-power-note">編輯意見｜非官方 · 若當實戰閃功吹：遠低於 0.5，狀態假</span></p><ul class="char-moves" aria-label="絕招預覽"><li class="char-move" data-kind="dance"><span class="move-tag">舞蹈・可證</span><span class="move-name">閃身步</span><span class="move-note">花鼓燈教材步伐。可證係舞蹈，唔當武功神技。</span></li></ul></div></a>
       <a class="char-card char-card--compact" data-slug="bio-xu-xiaodong" href="qigong-bios/qigong-bio-xu-xiaodong.html"><div class="char-avatar"><img src="https://i.ytimg.com/vi/EuusqWtgak0/hqdefault.jpg" alt="" width="104" height="104" loading="lazy" decoding="async" referrerpolicy="no-referrer" /><svg class="char-silhouette" viewBox="0 0 64 64" aria-hidden="true" focusable="false"><circle cx="32" cy="22" r="10"></circle><path d="M12 56c2-14 10-20 20-20s18 6 20 20"></path></svg><span class="char-initials" aria-hidden="true">徐</span></div><div class="char-main"><p class="char-kicker">R01 · 中國</p><h3 class="char-name">徐曉冬</h3><p class="char-power"><span class="char-power-k">戰鬥力</span> <strong>1.3–1.9</strong><span class="char-power-note">編輯意見｜非官方 · 打假級，遠低過泰臣＝3</span></p><ul class="char-moves" aria-label="絕招預覽"><li class="char-move" data-kind="ok"><span class="move-tag">可證接觸</span><span class="move-name">直拳組合壓制</span><span class="move-note">公開約戰見連續拳打結束。</span></li></ul></div></a>
-      <a class="char-card char-card--compact" data-slug="bio-nobody-here" href="qigong-bios/qigong-bio-nobody-here.html"><div class="char-avatar char-avatar--poster"><img src="assets/qigong-avatars/bio-nobody-here.jpg" data-fallback-src="https://i.ytimg.com/vi/Yv8FsLmfKsE/hqdefault.jpg" alt="粗剪影通緝卡，非真人肖像" width="220" height="132" loading="lazy" decoding="async" /><svg class="char-silhouette" viewBox="0 0 64 64" aria-hidden="true" focusable="false"><circle cx="32" cy="22" r="10"></circle><path d="M12 56c2-14 10-20 20-20s18 6 20 20"></path></svg><span class="char-initials" aria-hidden="true">N</span></div><div class="char-main"><p class="char-kicker">R02 · 香港</p><h3 class="char-name">Nobody-here</h3><p class="char-power"><span class="char-power-k">戰鬥力</span> <strong>0.8–1.2</strong><span class="char-power-note">編輯意見｜非官方 · 單場樣本，唔抬近泰臣</span></p><ul class="char-moves" aria-label="絕招預覽"><li class="char-move" data-kind="ok"><span class="move-tag">可證</span><span class="move-name">站立斷頭檯／頸鎖</span><span class="move-note">畫面見站立頸鎖逼降。</span></li></ul><p class="char-credit">粗剪影通緝卡｜非真人肖像。卡面字係草圖，戰鬥力以呢頁為準。載入失敗先用 YouTube 縮圖（跟 ToS，非官方）。</p></div></a>
-      <a class="char-card char-card--compact" data-slug="bio-wang-qingmin" href="qigong-bios/qigong-bio-wang-qingmin.html"><div class="char-avatar char-avatar--poster"><img src="assets/qigong-avatars/bio-wang-qingmin.jpg" data-fallback-src="https://i.ytimg.com/vi/94aQsvctFoI/hqdefault.jpg" alt="粗剪影通緝卡，非真人肖像" width="220" height="132" loading="lazy" decoding="async" /><svg class="char-silhouette" viewBox="0 0 64 64" aria-hidden="true" focusable="false"><circle cx="32" cy="22" r="10"></circle><path d="M12 56c2-14 10-20 20-20s18 6 20 20"></path></svg><span class="char-initials" aria-hidden="true">王</span></div><div class="char-main"><p class="char-kicker">R03 · 中國</p><h3 class="char-name">王慶民</h3><p class="char-power"><span class="char-power-k">戰鬥力</span> <strong>0.9–1.2</strong><span class="char-power-note">編輯意見｜非官方 · 業餘單場</span></p><ul class="char-moves" aria-label="絕招預覽"><li class="char-move" data-kind="ok"><span class="move-tag">可證</span><span class="move-name">直拳三振</span><span class="move-note">公開片連續打倒對手。</span></li></ul><p class="char-credit">粗剪影通緝卡｜非真人肖像。卡面字係草圖，戰鬥力以呢頁為準。載入失敗先用 YouTube 縮圖（跟 ToS，非官方）。</p></div></a>
+      <a class="char-card char-card--compact" data-slug="bio-nobody-here" href="qigong-bios/qigong-bio-nobody-here.html"><div class="char-avatar char-avatar--poster"><img src="assets/qigong-avatars/bio-nobody-here.jpg" data-fallback-src="https://i.ytimg.com/vi/Yv8FsLmfKsE/hqdefault.jpg" alt="TCG卡牌風頭像，非真人肖像" width="220" height="132" loading="lazy" decoding="async" /><svg class="char-silhouette" viewBox="0 0 64 64" aria-hidden="true" focusable="false"><circle cx="32" cy="22" r="10"></circle><path d="M12 56c2-14 10-20 20-20s18 6 20 20"></path></svg><span class="char-initials" aria-hidden="true">N</span></div><div class="char-main"><p class="char-kicker">R02 · 香港</p><h3 class="char-name">Nobody-here</h3><p class="char-power"><span class="char-power-k">戰鬥力</span> <strong>0.8–1.2</strong><span class="char-power-note">編輯意見｜非官方 · 單場樣本，唔抬近泰臣</span></p><ul class="char-moves" aria-label="絕招預覽"><li class="char-move" data-kind="ok"><span class="move-tag">可證</span><span class="move-name">站立斷頭檯／頸鎖</span><span class="move-note">畫面見站立頸鎖逼降。</span></li></ul><p class="char-credit">TCG／卡牌風頭像｜非真人肖像。卡面字係草圖，戰鬥力以呢頁為準。載入失敗先用 YouTube 縮圖（跟 ToS，非官方）。</p></div></a>
+      <a class="char-card char-card--compact" data-slug="bio-wang-qingmin" href="qigong-bios/qigong-bio-wang-qingmin.html"><div class="char-avatar char-avatar--poster"><img src="assets/qigong-avatars/bio-wang-qingmin.jpg" data-fallback-src="https://i.ytimg.com/vi/94aQsvctFoI/hqdefault.jpg" alt="TCG卡牌風頭像，非真人肖像" width="220" height="132" loading="lazy" decoding="async" /><svg class="char-silhouette" viewBox="0 0 64 64" aria-hidden="true" focusable="false"><circle cx="32" cy="22" r="10"></circle><path d="M12 56c2-14 10-20 20-20s18 6 20 20"></path></svg><span class="char-initials" aria-hidden="true">王</span></div><div class="char-main"><p class="char-kicker">R03 · 中國</p><h3 class="char-name">王慶民</h3><p class="char-power"><span class="char-power-k">戰鬥力</span> <strong>0.9–1.2</strong><span class="char-power-note">編輯意見｜非官方 · 業餘單場</span></p><ul class="char-moves" aria-label="絕招預覽"><li class="char-move" data-kind="ok"><span class="move-tag">可證</span><span class="move-name">直拳三振</span><span class="move-note">公開片連續打倒對手。</span></li></ul><p class="char-credit">TCG／卡牌風頭像｜非真人肖像。卡面字係草圖，戰鬥力以呢頁為準。載入失敗先用 YouTube 縮圖（跟 ToS，非官方）。</p></div></a>
     </div>
     <div class="jump-row" aria-label="奇人跳轉">
       <a href="#net-p01">P01</a> <a href="qigong-bios/qigong-bio-carriage-lau.html">劉馬車</a><a href="#net-p02">P02</a> <a href="qigong-bios/qigong-bio-long-sum.html">龍心</a><a href="#net-p03">P03</a> <a href="qigong-bios/qigong-bio-sau-dou-syun.html">修道船</a><a href="#net-p04">P04</a> <a href="qigong-bios/qigong-bio-guanzhang-chen-zhihan.html">館長（陳之漢）</a><a href="#net-p05">P05</a> <a href="qigong-bios/qigong-bio-lei-lei-taiji.html">雷雷</a><a href="#net-p06">P06</a> <a href="qigong-bios/qigong-bio-ma-baoguo.html">馬保國</a><a href="#net-p07">P07</a> <a href="qigong-bios/qigong-bio-shanshenbu-huagudeng.html">閃身步</a><a href="#net-r01">R01</a> <a href="qigong-bios/qigong-bio-xu-xiaodong.html">徐曉冬</a><a href="#net-r02">R02</a> <a href="qigong-bios/qigong-bio-nobody-here.html">Nobody-here</a><a href="#net-r03">R03</a> <a href="qigong-bios/qigong-bio-wang-qingmin.html">王慶民</a>

diff --git a/qigong-bios/qigong-bio-wang-qingmin.html b/qigong-bios/qigong-bio-wang-qingmin.html
@@ -234,7 +234,7 @@ code {
 
   <section class="hero" aria-labelledby="hero-title">
     <article class="char-card" data-slug="bio-wang-qingmin" aria-label="王慶民角色卡">
-      <div class="char-avatar char-avatar--poster"><img src="../assets/qigong-avatars/bio-wang-qingmin.jpg" data-fallback-src="https://i.ytimg.com/vi/94aQsvctFoI/hqdefault.jpg" alt="粗剪影通緝卡，非真人肖像" width="220" height="132" loading="lazy" decoding="async" /><svg class="char-silhouette" viewBox="0 0 64 64" aria-hidden="true" focusable="false"><circle cx="32" cy="22" r="10"></circle><path d="M12 56c2-14 10-20 20-20s18 6 20 20"></path></svg><span class="char-initials" aria-hidden="true">王</span></div>
+      <div class="char-avatar char-avatar--poster"><img src="../assets/qigong-avatars/bio-wang-qingmin.jpg" data-fallback-src="https://i.ytimg.com/vi/94aQsvctFoI/hqdefault.jpg" alt="TCG卡牌風頭像，非真人肖像" width="220" height="132" loading="lazy" decoding="async" /><svg class="char-silhouette" viewBox="0 0 64 64" aria-hidden="true" focusable="false"><circle cx="32" cy="22" r="10"></circle><path d="M12 56c2-14 10-20 20-20s18 6 20 20"></path></svg><span class="char-initials" aria-hidden="true">王</span></div>
       <div class="char-main">
         <p class="char-kicker">角色卡 · R03 · 中國</p>
         <h1 id="hero-title">王慶民 · <em>網路奇人傳</em></h1>
@@ -250,7 +250,7 @@ code {
         <span class="chip info">戰鬥力｜0.9–1.2</span>
         <span class="chip gold">硬核祝福編輯意見｜非官方</span>
       </div>
-        <p class="char-credit">粗剪影通緝卡｜非真人肖像。卡面字係草圖，戰鬥力以呢頁為準。載入失敗先用 YouTube 縮圖（跟 ToS，非官方）。</p>
+        <p class="char-credit">TCG／卡牌風頭像｜非真人肖像。卡面字係草圖，戰鬥力以呢頁為準。載入失敗先用 YouTube 縮圖（跟 ToS，非官方）。</p>
       </div>
     </article>
     <div class="slogan-box">戰鬥力 1＝普通成年男子，泰臣＝3（《刃牙》錨，唔係科學測量）。神功、無接觸吹噓唔當高戰力。</div>

diff --git a/qigong-bios/qigong-bio-nobody-here.html b/qigong-bios/qigong-bio-nobody-here.html
@@ -234,7 +234,7 @@ code {
 
   <section class="hero" aria-labelledby="hero-title">
     <article class="char-card" data-slug="bio-nobody-here" aria-label="Nobody-here角色卡">
-      <div class="char-avatar char-avatar--poster"><img src="../assets/qigong-avatars/bio-nobody-here.jpg" data-fallback-src="https://i.ytimg.com/vi/Yv8FsLmfKsE/hqdefault.jpg" alt="粗剪影通緝卡，非真人肖像" width="220" height="132" loading="lazy" decoding="async" /><svg class="char-silhouette" viewBox="0 0 64 64" aria-hidden="true" focusable="false"><circle cx="32" cy="22" r="10"></circle><path d="M12 56c2-14 10-20 20-20s18 6 20 20"></path></svg><span class="char-initials" aria-hidden="true">N</span></div>
+      <div class="char-avatar char-avatar--poster"><img src="../assets/qigong-avatars/bio-nobody-here.jpg" data-fallback-src="https://i.ytimg.com/vi/Yv8FsLmfKsE/hqdefault.jpg" alt="TCG卡牌風頭像，非真人肖像" width="220" height="132" loading="lazy" decoding="async" /><svg class="char-silhouette" viewBox="0 0 64 64" aria-hidden="true" focusable="false"><circle cx="32" cy="22" r="10"></circle><path d="M12 56c2-14 10-20 20-20s18 6 20 20"></path></svg><span class="char-initials" aria-hidden="true">N</span></div>
       <div class="char-main">
         <p class="char-kicker">角色卡 · R02 · 香港</p>
         <h1 id="hero-title">Nobody-here · <em>網路奇人傳</em></h1>
@@ -250,7 +250,7 @@ code {
         <span class="chip info">戰鬥力｜0.8–1.2</span>
         <span class="chip gold">硬核祝福編輯意見｜非官方</span>
       </div>
-        <p class="char-credit">粗剪影通緝卡｜非真人肖像。卡面字係草圖，戰鬥力以呢頁為準。載入失敗先用 YouTube 縮圖（跟 ToS，非官方）。</p>
+        <p class="char-credit">TCG／卡牌風頭像｜非真人肖像。卡面字係草圖，戰鬥力以呢頁為準。載入失敗先用 YouTube 縮圖（跟 ToS，非官方）。</p>
       </div>
     </article>
     <div class="slogan-box">戰鬥力 1＝普通成年男子，泰臣＝3（《刃牙》錨，唔係科學測量）。神功、無接觸吹噓唔當高戰力。</div>

diff --git a/assets/qigong-char-card.css b/assets/qigong-char-card.css
@@ -236,7 +236,7 @@ a.char-card:hover .char-name { color: var(--accent, #c9a227); }
 .char-card .meta-row { margin-top: 10px; }
 .char-card .hero-sub { margin-top: 4px; margin-bottom: 8px; }
 
-/* 粗剪影通緝卡係橫向草圖，用 contain 先唔切走 WANTED／名字 */
+/* TCG／卡牌風頭像係橫向卡面，用 contain 先唔切走卡框同名字 */
 .char-avatar--poster {
   width: 168px;
   height: 104px;

diff --git a/assets/qigong-char-card.js b/assets/qigong-char-card.js
@@ -1,4 +1,4 @@
-/* 本地通緝卡優先。data-fallback-src（YouTube／Commons）失敗先試一次，再退回首字。 */
+/* 本地 TCG 卡牌風頭像優先。data-fallback-src（YouTube／Commons）失敗先試一次，再退回首字。 */
 (function () {
   function toInitials(img) {
     img.hidden = true;
